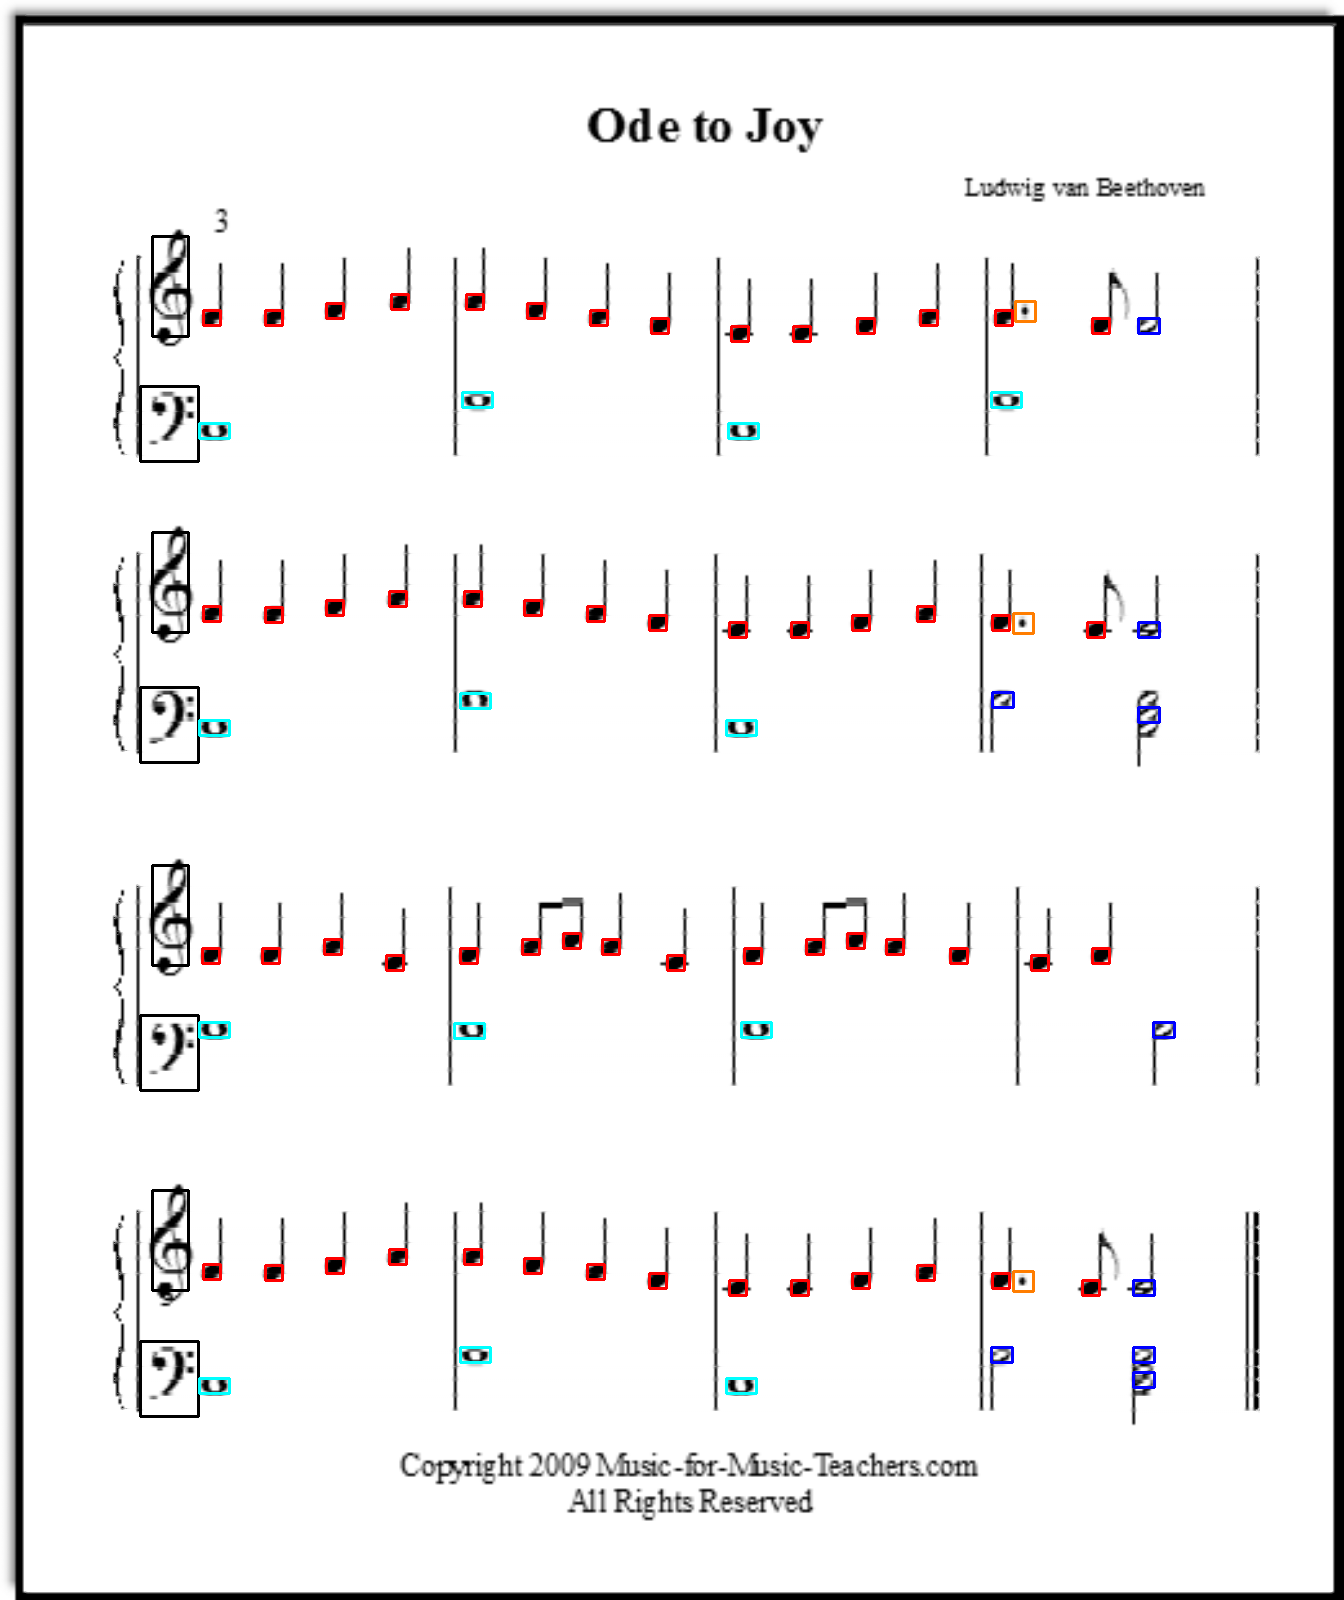
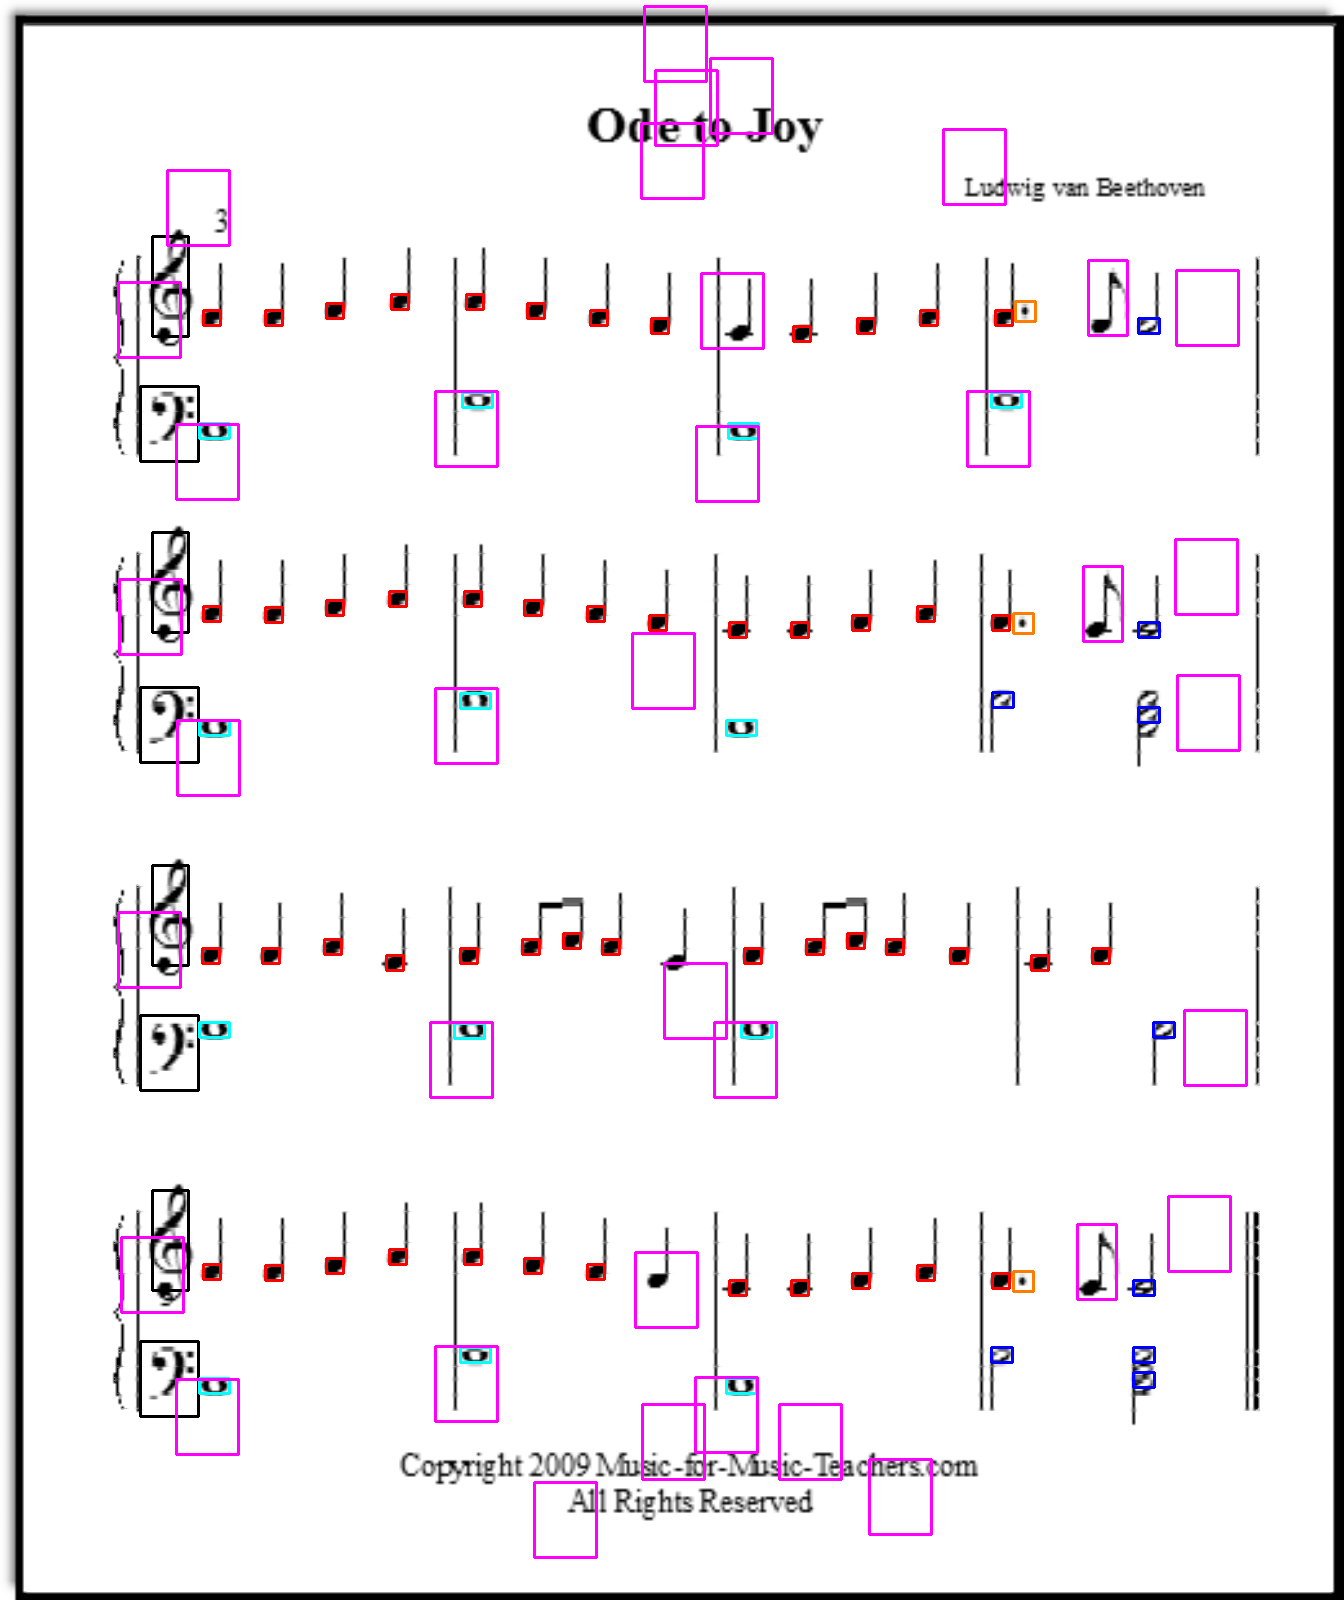
Uncleaned Code
Final actual content commit we're getting out of there

diff --git a/main.py b/main.py
@@ -187,7 +187,7 @@ half_template = resize(cv2.imread("./ressource/templates/half-note-space.png", c
 #quarter_template = cv2.imread("./ressource/templates/quarter.png", cv2.IMREAD_GRAYSCALE)
 quarter_template = resize(cv2.imread("./ressource/templates/quarter-note-line.png", cv2.IMREAD_GRAYSCALE),15)
 eighth_up_template =resize(cv2.imread("./ressource/templates/eighth-note-line.png", cv2.IMREAD_GRAYSCALE),75)
-barred_eighths =resize(cv2.imread("./ressource/templates/barred-eighths.png", cv2.IMREAD_GRAYSCALE),75)
+barred_eighth_template =resize(cv2.imread("./ressource/templates/barred-eighths.png", cv2.IMREAD_GRAYSCALE),75)
 #eighth_down_template =resize( cv2.imread("./ressource/templates/eighth-note-space.png", cv2.IMREAD_GRAYSCALE),50)
 #sharp_template = cv2.imread("./ressource/templates/sharp.png", cv2.IMREAD_GRAYSCALE)
 sharp_template = resize(cv2.imread("./ressource/templates/sharp-space.png", cv2.IMREAD_GRAYSCALE),50)
@@ -282,6 +282,8 @@ found_sharps= findSymbol(staffless_img,sharp_template, 0.55)
 found_wholes= findSymbol(staffless_img,whole_template, 0.535)
 found_dots= findSymbol(staffless_img,dot_template, 0.70)
 found_eigths= findSymbol(staffless_img,eighth_up_template, 0.47)
+found_barred_eigths= findSymbol(staffless_img,barred_eighth_template, 0.2)
+
 
 # deleting everything that's not in the staves (ie text)
 found_treble_clefs=delete_out_of_staff(found_treble_clefs,staves)
@@ -298,6 +300,7 @@ found_halfs = delete_left(found_halfs,found_treble_clefs[0][0]+found_treble_clef
 found_wholes= delete_left(found_wholes,found_treble_clefs[0][0]+found_treble_clefs[0][2])
 found_dots=delete_left(found_dots,found_treble_clefs[0][0]+found_treble_clefs[0][2])
 
+found_quarters=remove_inner_boxes(found_barred_eigths,found_quarters)
 found_quarters=remove_inner_boxes(found_eigths,found_quarters)
 found_quarters=remove_inner_boxes(found_wholes,found_quarters)
 found_halfs=remove_inner_boxes(found_eigths,found_halfs)
@@ -317,6 +320,7 @@ draw_rect(found_sharps,staffless_color,(0,255,0))
 draw_rect(found_wholes,staffless_color,(255,255,0))
 draw_rect(found_dots,staffless_color,(0,125,255))
 draw_rect(found_eigths,staffless_color,(255,0,255))
+draw_rect(found_barred_eigths,staffless_color,(255,0,255))
 
 # We create a note object, and then we find on which staff it is
 def sort_in_staff(staff_notes, staves, found, duration, type):
@@ -324,11 +328,17 @@ def sort_in_staff(staff_notes, staves, found, duration, type):
         x,y,w,h = p
         cx = x + w // 2 # getting the centerpoint of the notehead
         cy = y + h // 2
+        if type=="barred_eigth":
+                note1= Note (0, duration, cx, cy+10,"eigth")
+                note2= Note (0, duration, cx+10, cy,"eigth")
         note = Note (0, duration, cx, cy,type)
         for i in range (len(staves)):
             ys = sorted(staves[i])
             if ys[0] - 50 < cy < ys[-1] + 50:
                 staff_notes[i].append(note)
+                if type=="barred_eigth":
+                    staff_notes[i].append(note1)
+                    staff_notes[i].append(note2)
                 break
     return staff_notes
 
@@ -347,6 +357,7 @@ staff_notes=sort_in_staff(staff_notes,staves,found_halfs,0.5,"half")
 staff_notes=sort_in_staff(staff_notes,staves,found_wholes,1,"whole")
 staff_notes=sort_in_staff(staff_notes,staves,found_dots,0,"dot")
 staff_notes=sort_in_staff(staff_notes,staves,found_eigths,0.125,"eigth")
+# staff_notes=sort_in_staff(staff_notes,staves,found_barred_eigths,0.125,"barred_eigths")
 
 #staff_notes=sort_in_staff(staff_notes,staves,found_sharps,0,"sharps") 
 # i commented sharps out just bc they're not "notes" per se but idk what you want to do with those
@@ -445,7 +456,14 @@ for i in range (len(bass_notes)):
         if i!=len(bass_notes) -1 and bass_notes[i+1].type=="dot":
             note.duration*=1.5
         MyMIDI.addNote(track=1, channel=0, pitch=note.pitch, time=time, duration=note.duration, volume=100)
-        time=time+note.duration
+        if i<len(bass_notes)-1:
+            if note.x!=bass_notes[i+1].x:
+                print(str(note.x) + " , " + str(bass_notes[i+1].x))
+                time=time+note.duration
+            else:
+               print("homo")
+        else:
+                time=time+note.duration
 
 with open("output.mid", "wb") as output_file:
     MyMIDI.writeFile(output_file)
